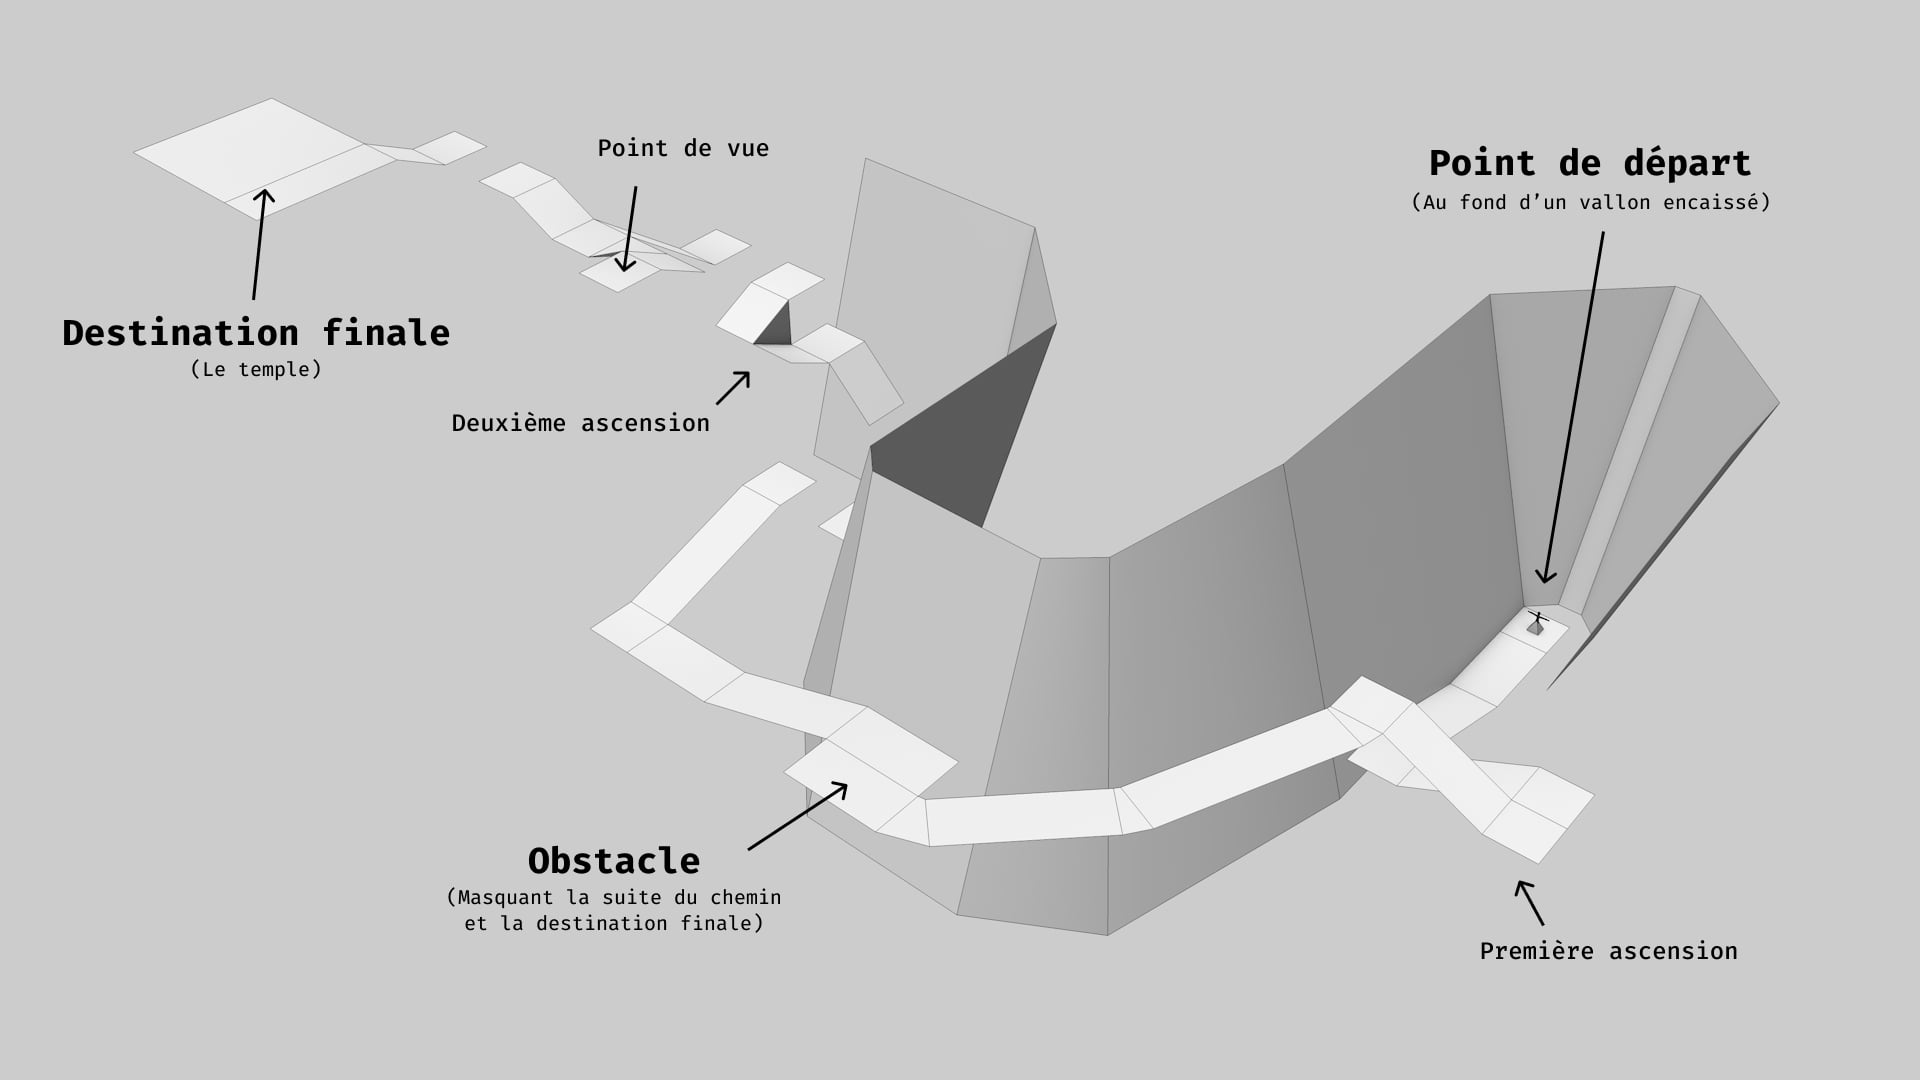
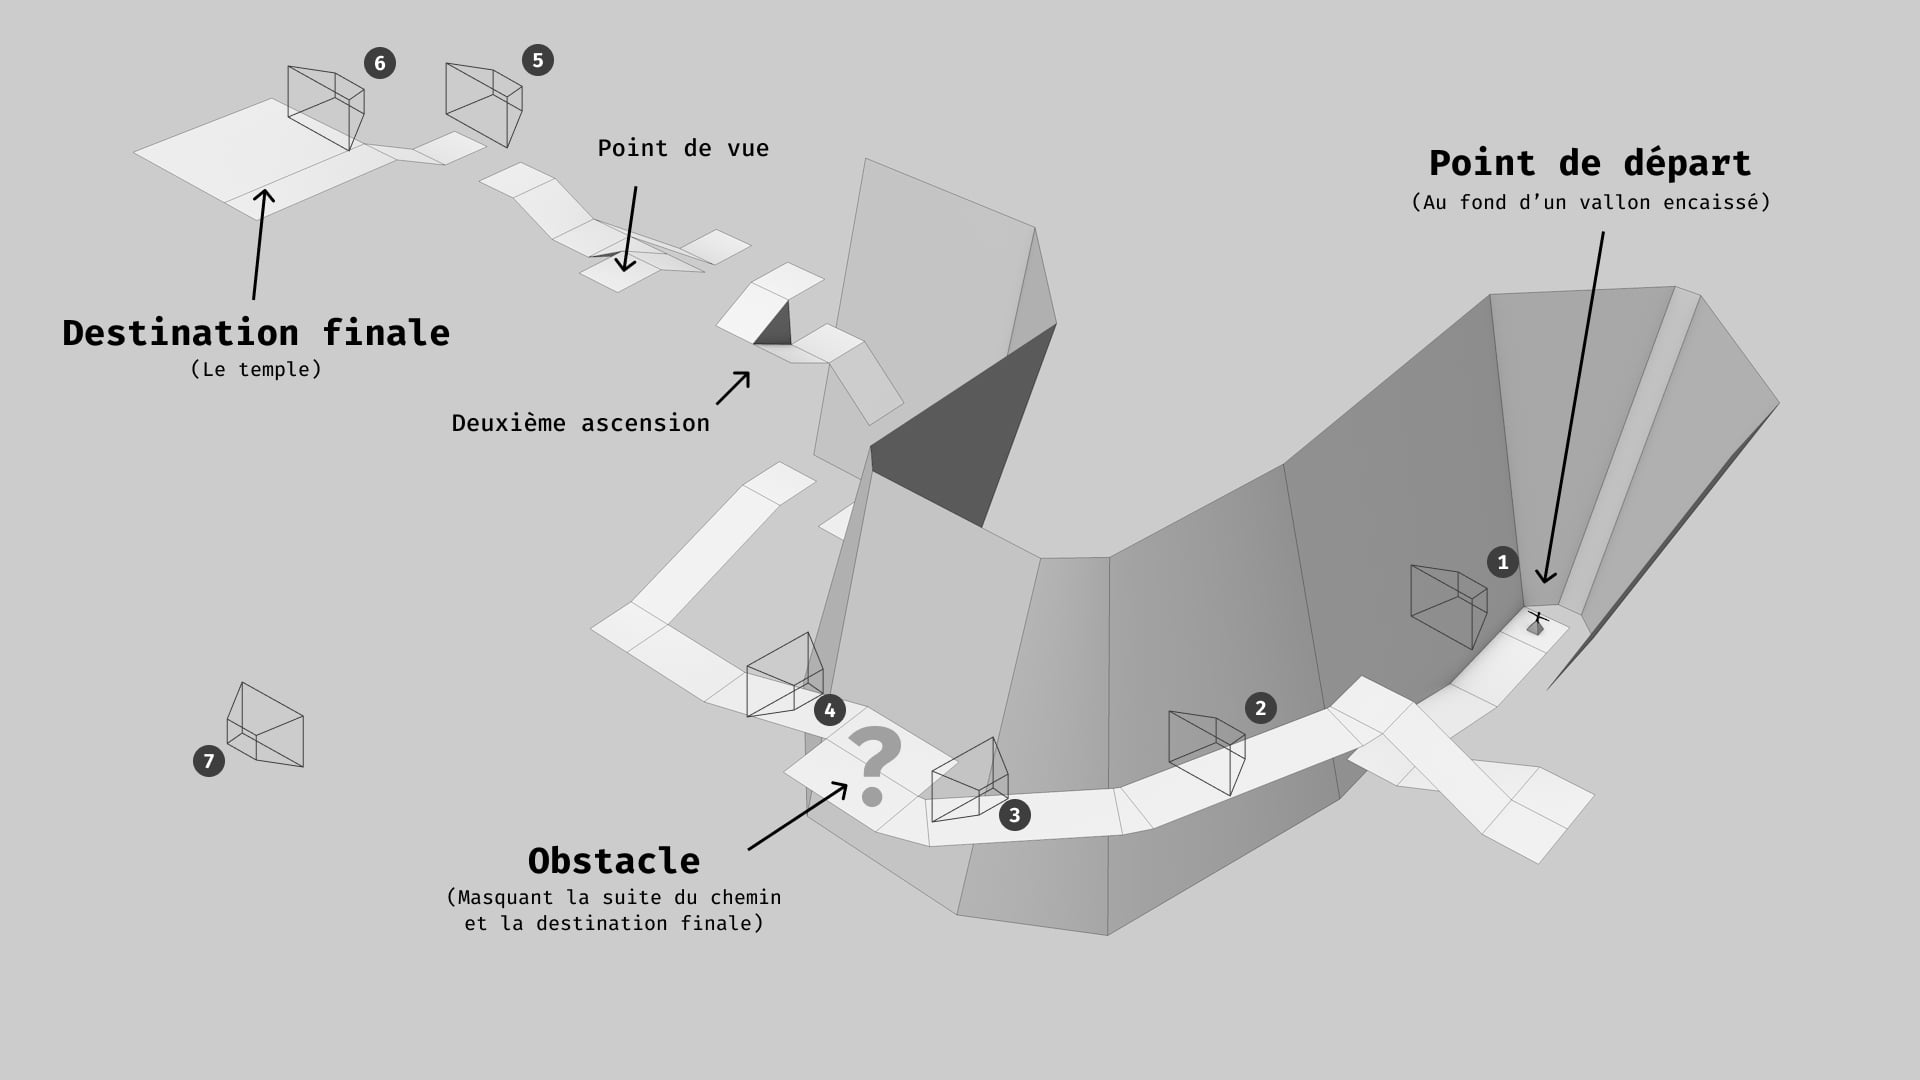
ex2 brief / readme

diff --git a/exercises/Ex2/README.md b/exercises/Ex2/README.md
@@ -12,7 +12,7 @@ franchissement (saut hauteur / longueur).
 Cet environnement sera complété dans un second temps par l'ajout d'un artefact 
 (dans le temple), par la présence d'un léger sound design.
 
-## Contraintes: 
+## Contraintes : 
 - Le parcours général doit respecter les volumes du mesh "Ex2-MountainTemple" 
   (Work/jniac/Misc). Les volumes peuvent être ainsi résumés : 
     - Le joueur commence dans un vallon étroit, encaissé, la montagne le surplombe, 
@@ -30,3 +30,27 @@ Cet environnement sera complété dans un second temps par l'ajout d'un artefact
 - L'environnement apparaît riche et détaillé grâce à l'utilisation de "Foliage" 
   (végétation, petits rochers).
 - L'horizon est cohérent tout au long du parcours (il n'y a pas de gros "trous").
+
+
+## Rendu : 
+[Coté "Unreal"](https://github.com/jniac/SDC_2223_B2_CMNPRJCT) :
+- Un "level" (map) nommé XXX_EX2_YYYYY dans le dossier `Content/Work/ZZZ` où :
+  - `XXX` est le préfixe en 3 lettres associés à chaque étudiant (et dérivé du pseudo github).
+  - `YYY` une séquence de lettres sans importance (par exemple "MonJoliTemple").
+  - `ZZZ` est le pseudo github (à la majuscule près).
+
+[Coté "web"](https://github.com/jniac/SDC-22-23-B2-UE5) : 
+- Une page web (ex: exercice2.html) dans le dossier `work/XXX` (où `XXX` est le 
+  pseudo github). 
+    - Cette page doit être accessible (lien) dans la page index.html 
+    de chaque étudiant.
+    - Les assets nécessaire (image, css) doivent être présents et correctement
+    référencés.
+    - Cette page web contient 7 captures d'écran (in game): 
+      - 1 : Le point de départ.
+      - 2 : Progression à flanc de montagne.
+      - 3 : Vue sur l'obstacle masquant la suite du chemin.
+      - 4 : Vue juste après l'obstacle.
+      - 5 : Vue sur le temple.
+      - 6 : Vue à l'interieur du temple.
+      - 7 : Vue général (vue du ciel, vue éditeur).
